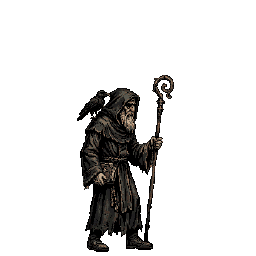
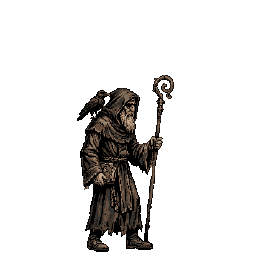
Arte: Bento com meios-tons clareados e tom quente (V2), pele fora do filtro (D-416)
Claude-Session: https://claude.ai/code/session_01DUWuezvzjAUhnjSiedgYuQ

diff --git a/tools/art/import_pixel.py b/tools/art/import_pixel.py
@@ -94,6 +94,10 @@ class Character:
     # Every clip of the character gets the warm skin (D-388).
     warm: bool = False
     figure_scale: float = FIGURE_SCALE
+    # Colour grade (D-416): gamma below 1 lifts the mid-tones; the three
+    # factors warm the colours (Bento, closer to George's palette).
+    grade_gamma: float = 1.0
+    grade_warm: tuple[float, float, float] = (1.0, 1.0, 1.0)
     clips: list["Clip"] = field(default_factory=list)
 
 
@@ -139,6 +143,8 @@ def read_characters() -> list[Character]:
                 palette=row["palette"],
                 halo=halo,
                 figure_scale=float(row.get("figure_scale") or FIGURE_SCALE),
+                grade_gamma=float(row.get("grade_gamma") or 1.0),
+                grade_warm=tuple(float(v) for v in (row.get("grade_warm") or "1|1|1").split("|")),
             )
     with CLIPS_CSV.open(encoding="utf-8") as f:
         for row in csv.DictReader(f):
@@ -315,6 +321,7 @@ def clean(clip: Clip, char: Character, colours: np.ndarray,
         for token in clip.cleanup:
             if token.startswith("specks="):
                 report["soltos"] += erase_specks(cell, int(token.split("=")[1]))
+        grade(cell, char)
     return _finish(cells, clip, char, colours, report)
 
 
@@ -330,6 +337,23 @@ SKIN_MAP = {
     "saint_therese": {"#DABBA5": "#C4A98D", "#C6A691": "#C4A98D", "#A08371": "#9A745A",
                       "#836A5C": "#765B47", "#5D4439": "#553327"},
 }
+
+
+def grade(cell: np.ndarray, char: "Character") -> None:
+    """Lifts the mid-tones and warms the colours of `char` in place (D-416);
+    the palette snap afterwards keeps every colour on the game palette."""
+    if char.grade_gamma == 1.0 and char.grade_warm == (1.0, 1.0, 1.0):
+        return
+    rgb = cell[:, :, :3].astype(np.float64) / 255.0
+    graded = np.power(rgb, char.grade_gamma) * np.array(char.grade_warm)
+    # The skin already has George's colours (warm_skin): left as it is, or
+    # the warmer tone tips it into the gold of the palette.
+    keep = np.zeros(cell.shape[:2], dtype=bool)
+    for target in SKIN_MAP.get(char.id, {}).values():
+        dst = np.array([int(target[k:k + 2], 16) for k in (1, 3, 5)])
+        keep |= np.abs(cell[:, :, :3].astype(np.int32) - dst).sum(axis=2) <= 2
+    graded[keep] = rgb[keep]
+    cell[:, :, :3] = np.clip(graded * 255.0 + 0.5, 0, 255).astype(np.uint8)
 
 
 def warm_skin(cell: np.ndarray, character: str) -> int:
@@ -398,6 +422,7 @@ def write_bust(char: Character, cell: np.ndarray, colours: np.ndarray) -> Path:
     binarize(full)
     if char.warm:
         warm_skin(full, char.id)
+    grade(full, char)
     if char.palette == "snap":
         snap_to_palette(full, colours)
     x0, y0, x1, _ = outline(full)

diff --git a/docs/memory/decisions.md b/docs/memory/decisions.md
@@ -338,4 +338,5 @@ Formato: **D-número · data · quem** — decisão. *Onde está aplicada.*
 - **D-413 · 16/11/2026 · Alan** — T41 com merge (PR #76), com o CI verde. Ordem mantida: **T42** (expedição completa) antes da T44 (interface). *`progress.md`.*
 - **D-414 · 16/11/2026 · Alan** — Respostas do plano da T42: (1) Encontro com a alma com **texto provisório** marcado ("texto na T43") e a T43 logo depois; (2) **permissão** para pôr o resultado `dominion` nas opções boas de "O abrigo do vento" (`docs/narrative/events/circle_02/`); (3) **O peixe do Tigre num só caminho** do trecho 3 (o jogador escolhe ir buscar o fígado); (4) começar num Pouso consagrado: Alan pediu explicação. Arte: Alan acha Bento cinzento e Teresinha com resolução abaixo de Jorge; inimigos melhores que os santos. Medido pelo agente: as fontes têm a mesma altura (230 a 245 px); a diferença é de cor e contraste (Bento: brilho 32 e 30 cores; Jorge: 43 e 54; Teresinha: pouca saturação, hábito preto e branco). Proposta: santos menos reduzidos (0,72 em vez de 0,6, ~170 px) e Bento com os meios-tons clareados; prévia enviada para Alan escolher. *`m2.md` T42, `pixel_characters.csv`.*
 - **D-415 · 16/11/2026 · Alan e agente** — Alan aprova os santos maiores **só se os inimigos também crescerem**, sem se sobrepor e com espaço entre os times; Bento ainda não está bom: pediu filtro de cor na pele para ficar mais perto de Jorge, com testes. Em prova (a aprovar): todos 20% maiores (`FIGURE_SCALE` 0,72; Minos 0,96; Vertigem 0,86; Asmodeu segue 1,0, o tamanho do desenho); campo com santos a partir de x 374, inimigos a partir de 548, passo de 118 e intenções em y 118. Dois Diabos de Lodo lado a lado ainda encostam os braços e o 4º inimigo encosta na borda da tela de 960 (no celular largo sobra espaço). Bento: três variantes de cor mandadas (V1 mais luz; V2 luz e tom quente; V3 luz, tom quente e pele de Jorge). *`tools/art/import_pixel.py`, `pixel_characters.csv`, `battle_screen.gd`.*
+- **D-416 · 16/11/2026 · Alan** — Aprovados todos os personagens 20% maiores (D-415) e **Bento na V2**: meios-tons clareados (gama 0,8) e tom quente (×1,10, ×1,0, ×0,86), por colunas novas `grade_gamma` e `grade_warm` em `pixel_characters.csv`; a pele (já no tom de Jorge, D-388) fica fora do filtro, senão vira o dourado da paleta. **Asmodeu maior:** pedido; o PixelLab anima no máximo 256 × 256 por quadro, e o Asmodeu atual já ocupa o quadro na largura (figura de 232 × 187); proposta e custo enviados a Alan antes de gerar (D-369). *`tools/art/import_pixel.py`, `pixel_characters.csv`.*
 - **D-308** — Simulador: formação do M0 Jorge (1), Bento (2), Teresinha (3); expedição longa simulada com 6 combates, Lume −5 por nó, Pousos com Vigília depois dos combates 2 e 4 e vida cheia a cada combate. *T13, `tools/sim/battle_simulator.gd`.*

diff --git a/docs/memory/lessons.md b/docs/memory/lessons.md
@@ -69,6 +69,9 @@ Fluxo que funciona (`tools/art/process_frames.py` + `animation_clips.csv` + `ani
 - **PixelLab, limite de pedidos:** o plano Tier 1 roda no máximo 8 trabalhos ao mesmo tempo (contando site, API e agente) e pede mais de 2 s entre envios; o 9º volta sem `job_id`. Envie em fila, esperando terminar (D-380).
 - **Sessão retomada mata a compilação do Godot:** o `setup_godot.sh` fica preso na trava. Apague `~/.cache/godot-4.7.2/building` e rode o script de novo.
 
+- **Filtro de cor num personagem (D-416):** depois do filtro vem o ajuste à paleta; um tom mais quente na pele vira o dourado da paleta (pontos amarelos no rosto e na mão de Bento). Deixe fora do filtro as cores que já foram trocadas pela pele de Jorge.
+- **PixelLab, limite de animação:** `animate_image_pixminimax` aceita quadros de no máximo 256 × 256; um chefe maior precisa ser desenhado mais alto dentro do quadro, em partes, ou ampliado 2×.
+
 ## Dados
 
 - Antes de criar uma constante nova, procure em `constants.csv`: na T20 quase entrou `map_generation_attempts`, mas `map_generation_retries` já existia.
